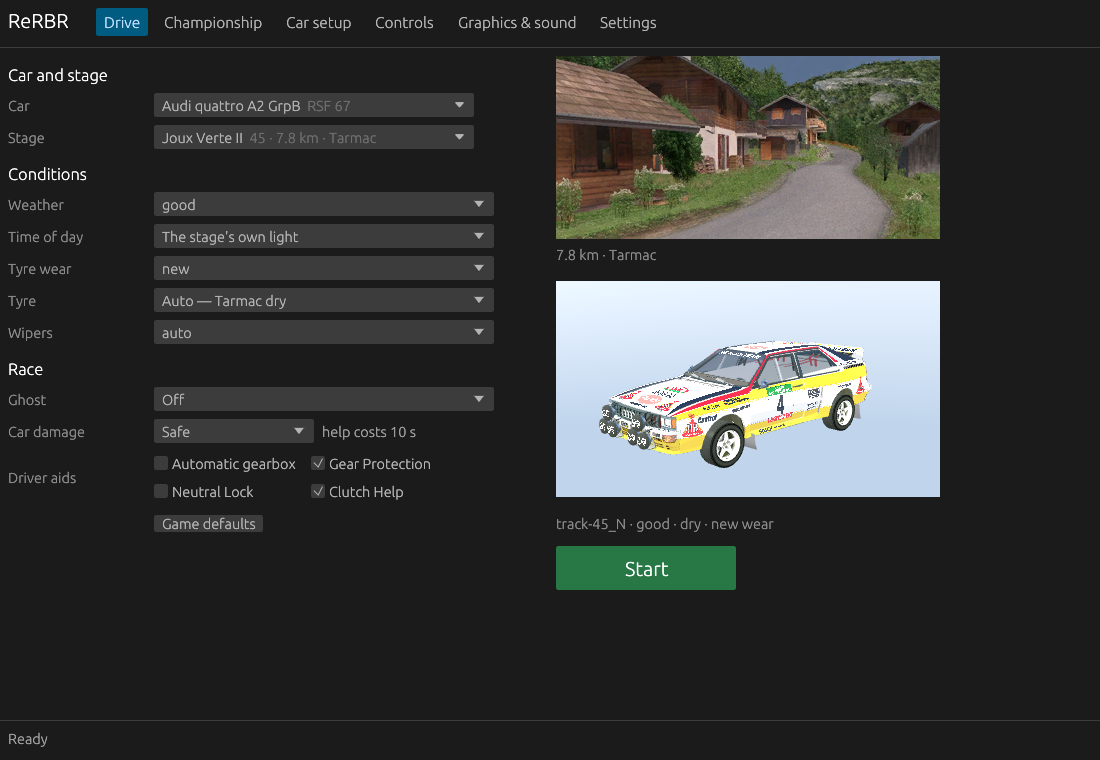
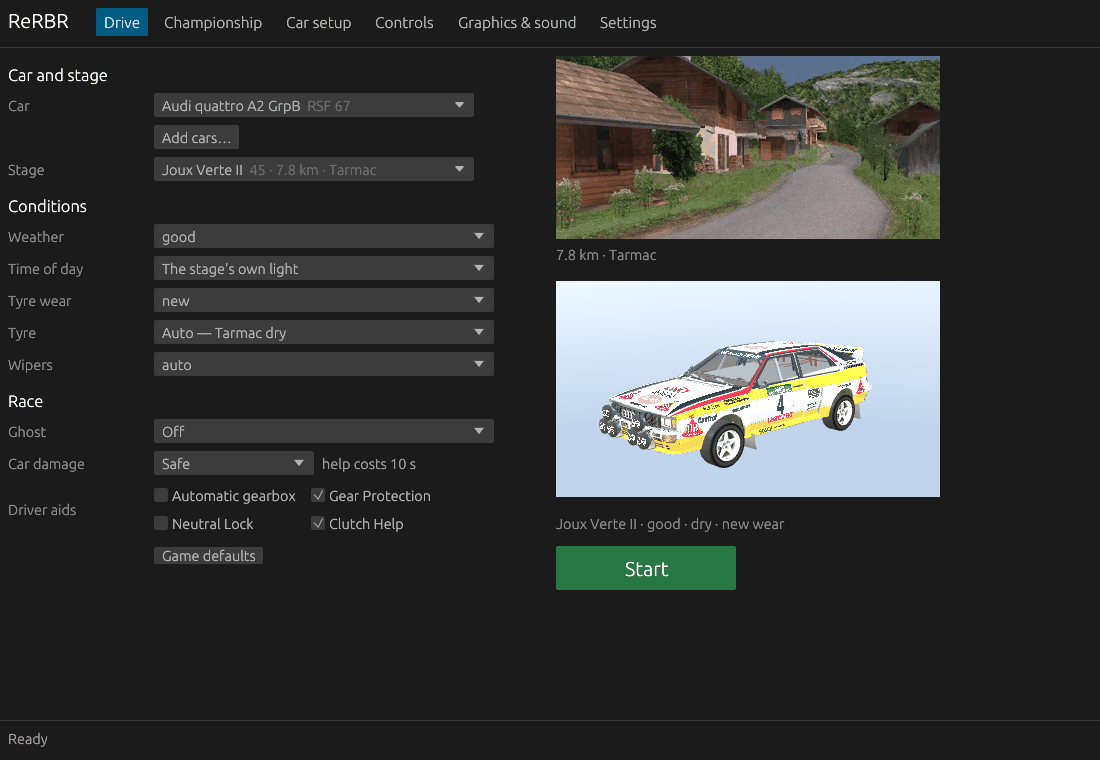
docs: README cockpit clip and current launcher shots

diff --git a/README.md b/README.md
@@ -8,6 +8,11 @@ the handling they know. You bring your own game files.
 
 *From the driver's seat: Audi quattro A2 (model by Shenshee) on Joux Verte II, France.*
 
+![Ten seconds in the cockpit of the Audi quattro A2 through the village of Joux Verte II: houses, spectators and bends](docs/images/clip-audi-quattro-a2-joux-verte-ii.webp)
+
+*On the move: Audi quattro A2 (model by Shenshee) through the village on Joux Verte II, France, driven by the autopilot
+under NGP physics.*
+
 ## Why
 
 - **Native on macOS and Linux.** One download, Apple silicon included. No Wine, no Proton, no Windows.
@@ -46,8 +51,13 @@ The launcher: the Drive page with the car, the stage and the conditions, and a c
 |---|---|
 | ![The launcher's Drive page with the Audi quattro A2 and Joux Verte II selected, a picture of the stage and the car](docs/images/launcher-drive.png) | ![The launcher's Championship page: a season in a Lancia Delta HF 4WD after its first stage, with the stage list and the standings](docs/images/launcher-championship.png) |
 
-The driving shots were taken on a Mac at 1920x1080 on retail stages, with RallySimFans NGP cars and the launcher's default
-additions. The car models are their authors' work, credited above; the cockpit dials are drawn from RBRHUD's data.
+The Settings page checks the install first: the game, NGP, the cars and the wheel.
+
+![The launcher's Settings page: Ready to drive, with the game, NGP 7.4.778, the cars and the wheel ticked](docs/images/launcher-ready.png)
+
+The driving shots were taken on a Mac at 1920x1080 (the clip scaled down to 960 wide) on retail stages, with
+RallySimFans NGP cars and the launcher's default additions. The car models are their authors' work, credited above;
+the cockpit dials are drawn from RBRHUD's data.
 
 ## Status
 
